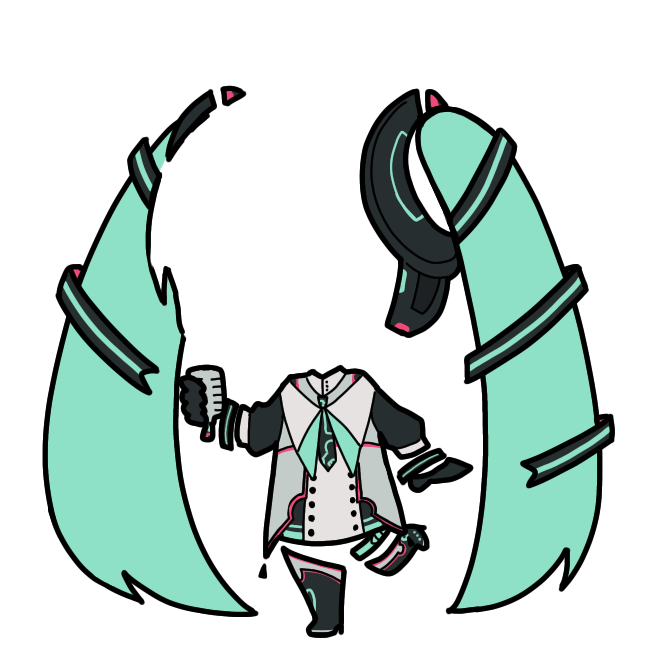
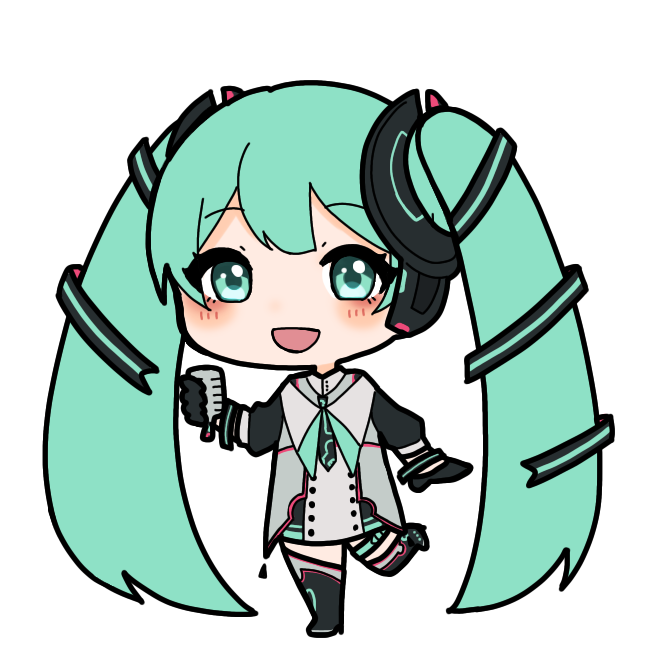
[work] ミク衣装画像修正

diff --git a/src/index.js b/src/index.js
@@ -558,10 +558,8 @@ function changeLowRightLight(id) {
 
 // 衣装チェンジ
 function changeCostume() {
-  var body = document.getElementById("mikubody");
   var cos = document.getElementById(nowCostume);
   cos.style.display = "none";
-  body.style.display = "none";
   var index = cosList.indexOf(nowCostume) + 1;
   if (index == cosList.length) {
     index = 0;
@@ -569,7 +567,6 @@ function changeCostume() {
   nowCostume = cosList[index];
   cos = document.getElementById(cosList[index]);
   cos.style.display = "inline";
-  body.style.display = "inline";
 }
 
 /* シークバー */

diff --git a/src/index.html b/src/index.html
@@ -29,9 +29,7 @@
       <!-- ステージ背景 -->
       <img id="backstage" class="w_child" src="../img/background/background.png">
 
-      <!-- ミクBODY -->
-      <img id="mikubody" src="../img/costume/Miku.png" class="mikuimg bound">
-      <!-- ミク衣装 -->
+      <!-- ミク -->
       <img id="mikudefault" src="../img/costume/default.png" class="mikuimg bound">
       <img id="miku2013" src="../img/costume/2013.png" class="mikuimg bound cos">
       <img id="miku2014" src="../img/costume/2014.png" class="mikuimg bound cos">
